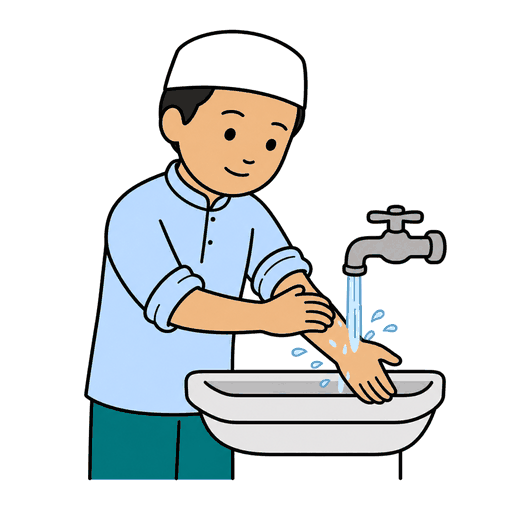
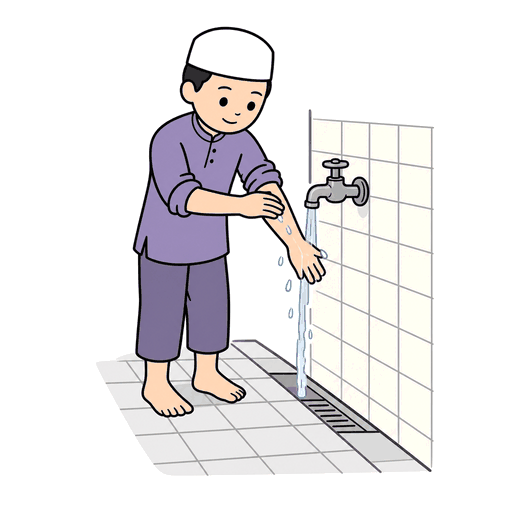
Redraw wuduk at a wall tap over a floor drain
Claude-Session: https://claude.ai/code/session_01AsejBsdQxLnS4wQAMwD71f

diff --git a/scripts/local-images/generate.py b/scripts/local-images/generate.py
@@ -46,7 +46,7 @@ PICTURES = [
     ("baju-kurung", "a Malay girl wearing a pink baju kurung: long loose top and long matching skirt with a small flower pattern"),
     ("baju-melayu", "a Malay boy wearing a blue baju melayu: loose long-sleeved top and matching trousers, with a short patterned sampin cloth at the waist and a black songkok"),
     # Faith and festivals
-    ("wuduk", "a Malay boy with a white cap washing his forearms under a running tap, doing wuduk ablution before prayer"),
+    ("wuduk", "a Malay boy with a white cap and rolled up sleeves washing his forearm under a water tap fixed on a tiled wall, at a Malaysian surau ablution area: no sink or basin, the water falls straight down to a tiled floor channel with a drain"),
     ("sahur", "a Malay family eating together at a table before dawn, the window behind them showing a dark sky with a crescent moon and stars"),
     ("deepavali", "Deepavali: three small lit clay oil lamps in front of a colourful round kolam floor pattern"),
     ("hari-merdeka", "Malaysian children waving small Malaysian flags and cheering on Independence Day"),
